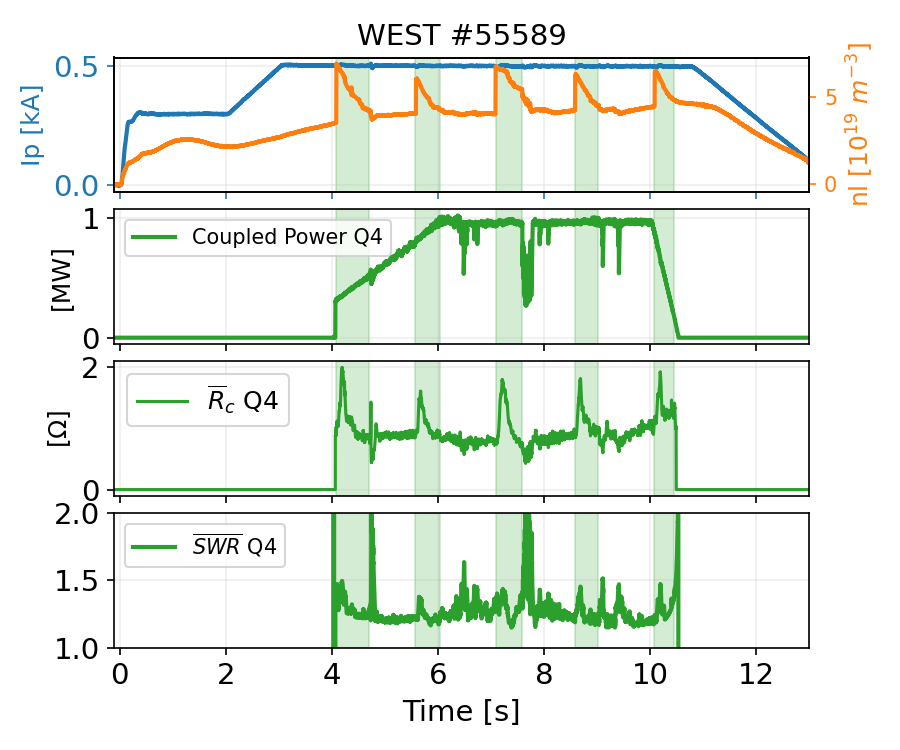
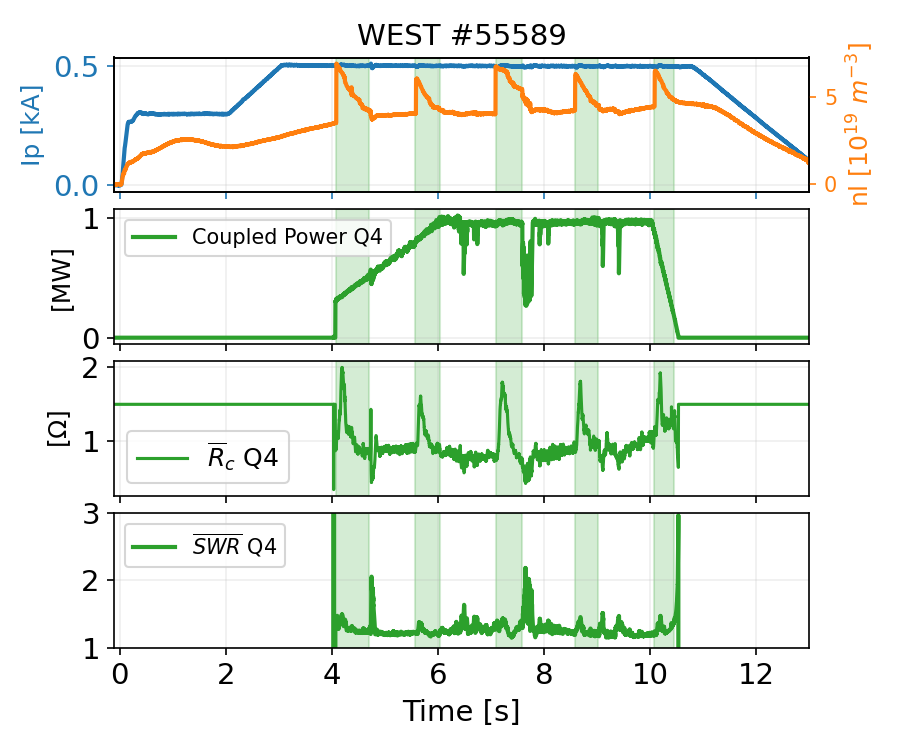
Taking Guillaume and Walid comments

diff --git a/master.tex b/master.tex
@@ -146,7 +146,7 @@ The three WEST ICRH antennas have been designed to satisfy the ICRH power requir
 
 Each antenna is made of four short straps (2 toroidal $\times$ 2 poloidal) located in separated boxes behind a Faraday Screen (figure~\ref{fig:antenna}). The tilt angle of the Faraday Screen bars is close to the direction of the total magnetic field lines facing the antennas (\SI{7}{\degree}). Each toroidal side of an antenna is fed by a separate high power source. The phase between the left and right sides of each antenna is defined by the plasma control system, the default being dipole configuration. An FPGA-based PID controller modulates the right side generator source frequency (the left side being the reference) to maintain the requested phase with a response time of approximately \SI{50}{\micro\second}. Moreover, the frequencies at which antennas are operated are slightly shifted from the scenario request (around $\pm \SI{0.3}{\mega\hertz}$) to reduce cross-talk between antennas. All antennas are movable radially for optimizing the power coupling and thermal loads handling.
 
-To cope with the fast changes of the electron density facing the antenna during ELMs, the antennas rely on internals conjugate-T \cite{bosia2003-1}: poloidal pairs of straps are connected to an adjustable series capacitor and fed from a common T-junction. Matching is achieving by tuning these capacitors such as the two parallel branches have complex conjugate admittances. If the impedance seen at the T-junction is in the range of 3 to \SI{6}{\ohm}, this feeding circuit allows maintaining the Standing Wave Ratio (SWR) below reasonable values for the generator (below $2{:}1$ on WEST) within a large increase in antenna resistive loadings, such as the ones expected during ELMs. This load-tolerant electrical circuit has been successfully tested in few seconds pulses in Tore Supra \cite{vulliez2008} and JET \cite{durodie2012-1}. This choice was also motivated by the fact that no \SI{3}{\decibel} Continuous Wave (CW) couplers were available (and still) on the market and required important R\&D. The low impedance at the conjugate-T junction is then transformed to the feeding \SI{30}{\ohm} transmission lines by a fixed two-stage quarter-wave transformer.
+To cope with the fast changes of the electron density facing the antenna during ELMs, the antennas rely on internals conjugate-T \cite{bosia2003-1}: poloidal pairs of straps are connected to an adjustable series capacitor and fed from a common T-junction. Matching is achieving by tuning these capacitors such as the two parallel branches have complex conjugate admittances. If the impedance seen at the T-junction is in the range of 3 to \SI{6}{\ohm}, this feeding circuit allows maintaining the Standing Wave Ratio (SWR) below reasonable values for the generator (below $2{:}1$ for \SI{3}{\mega\watt} per antenna on WEST) within a large increase in antenna resistive loadings, such as the ones expected during ELMs. This load-tolerant electrical circuit has been successfully tested in few seconds pulses in Tore Supra \cite{vulliez2008} and JET \cite{durodie2012-1}. This choice was also motivated by the fact that no \SI{3}{\decibel} Continuous Wave (CW) couplers were available (and still) on the market and required important R\&D. The low impedance at the conjugate-T junction is then transformed to the feeding \SI{30}{\ohm} transmission lines by a fixed two-stage quarter-wave transformer.
 
 
 \begin{figure}
@@ -159,7 +159,7 @@ To cope with the fast changes of the electron density facing the antenna during 
 
 
 
-Thanks to the collaboration between LPP-RMA and CEA, the experience gained with the JET ILA \cite{durodie2012-1} has been used during the WEST antenna design. In particular, the reliability of the operation of the capacitors has been improved with reduced mechanical stresses and the possibility to perform remote-diagnostic of the capacitor internal vacuum. Lessons were also learned from Tore Supra prototypes, to improve vacuum tightness and to bring water in all the parts of the antenna \cite{vulliez2008, vulliez2015}. The vacuum pumping of the impedance transformer sections has been improved and the pressure is monitored with two pressure gauges. Strap voltages are measured using D-dot electric field probes located between the capacitors and the straps (figure~\ref{fig:westicrhblockdiagram}). Strap currents are deduced analytically from these voltages, assuming the strap impedance is mostly reactive. Forward and reflected powers are measured by bi-directional couplers located at the rear of the antenna and at the generator plant. The forward RF power is feedback-controlled to keep voltages and currents below their maximum safety thresholds, set to \SI{28}{\kilo\volt} and \SI{915}{\ampere} respectively, with a fast response time of the order of \SI{10}{\micro\second}  to avoid possible current overshoots during plasma disruptions.
+Thanks to the collaboration between LPP-RMA and CEA, the experience gained with the JET ILA \cite{durodie2012-1} has been used during the WEST antenna design. In particular, the reliability of the operation of the capacitors has been improved with reduced mechanical stresses and the possibility to perform remote-diagnostic of the capacitor internal vacuum. Lessons were also learned from Tore Supra prototypes, to improve vacuum tightness and to bring water in all the parts of the antenna \cite{vulliez2008, vulliez2015}. The vacuum pumping of the impedance transformer sections has been improved and the pressure is monitored with two pressure gauges. Strap voltages are measured using D-dot electric field probes located between the capacitors and the straps (figure~\ref{fig:westicrhblockdiagram}). Strap currents are deduced analytically from these voltages, assuming the strap impedance is mostly reactive. Forward and reflected powers are measured by bi-directional couplers located at the rear of the antenna and at the generator plant. The forward RF power is feedback-controlled to keep voltages and currents below their maximum safety thresholds, set to \SI{28}{\kilo\volt} and \SI{915}{\ampere} respectively, with a fast response time of the order of \SI{10}{\micro\second} to avoid possible voltage or current overshoots during plasma disruptions.
 
 \begin{figure}
 	\centering
@@ -172,6 +172,8 @@ Thanks to the collaboration between LPP-RMA and CEA, the experience gained with 
 A unique feature of these antennas is to satisfy the long pulse requirement of WEST. Antennas are fully water-cooled using two distinct water circuits: i) a high temperature/high pressure (up to \SI{200}{\celsius} during baking operation and \SI{70}{\celsius}/\SI{30}{\bar} bar during plasma operation) water circuit and ii) a low temperature/low pressure (\SI{25}{\celsius}/\SI{4}{\bar}) specifically designed to cool the antenna matching capacitors \cite{chen2015,vulliez2015}. However, some limitations remain in the thermal evolution of non-actively water-cooled components that could not be replaced or actively cooled, such as in the generator plant, transmission lines or vacuum feed-throughs. This implies a tuning of the total power as a function of the pulse duration, i.e. to \SI{9}{\mega\watt} /\SI{30}{\second}, \SI{6}{\mega\watt}/\SI{60}{\second} and \SI{3}{\mega\watt}/\SI{1000}{\second} \cite{hillairet2015-2}.
 
 All antenna RF surfaces, such as the Faraday Screen, antenna box, straps, internal and external conductors, are silver-coated (\SI{10}{\micro\meter} Ni and around \SI{50}{\micro\meter} Ag, i.e. more than five times the skin depth). Lateral limiters are located on both sides of each antenna and protrude by \SI{2}{\centi\meter} from the edges of the Faraday Screen. These limiters are the ones used on Tore Supra and are made of CFC tiles coated with a double coating made of a first \SI{80}{\micro\meter} molybdenum layer followed by an \SI{80}{\micro\meter} tungsten (W) coating \cite{firdaouss2017-1, firdaouss2017}. While having high Z materials close to an ICRH antenna was known to increase the tungsten sputtering attributed to the acceleration of light impurity ions in the rectified RF sheaths \cite{bobkov2010}, this choice was motivated by the desire to keep a full W, reactor relevant machine \cite{bucalossi2014}.
+
+An infrared thermography system monitors the antenna front-faces with a spatial resolution better than \SI{5}{\milli\metre}/pixel\cite{courtois2019}. Antenna limiters are protected with a real-time reduction of the RF power if the luminance temperature (i.e. with unity emissivity) exceeds a threshold initially determined either from material test bed or experience. The real-time protection of the ICRH antenna front-face is more challenging in WEST than in Tore-Supra\cite{colas2009}, in particular due to the low emissivity of their silver coating which reduces the surface temperature estimation accuracy \cite{aumeunier2021}. So far, the front-faces are monitored but without real-time feedback on RF power during plasma operations.
 
 The WEST ICRH antenna design phase has been conducted from 2013 to 2014, followed by manufacturing in ASIPP from 2015 to 2017. Antenna elements were shipped to CEA, then silver coated and the antennas assembled in series from 2016 to 2019. The antennas have been commissioned on TITAN, then installed on WEST and operated progressively since 2018 \cite{bernard2017, bernard2019, helou2020}. In 2019, all three antennas were operated on WEST (figure~\ref{fig:ICRH_antenna_inside_WEST}). This paper reports the commissioning and the key results obtained on plasma with the full WEST ICRH system.
 
@@ -191,7 +193,7 @@ The WEST ICRH antenna design phase has been conducted from 2013 to 2014, followe
 
 
 \section{RF Modelling}
-The WEST ICRH RF modelling, described in more details in \cite{helou2015-2, hillairet2020-2}, is summarized in this section. The antenna RF model uses a combination of full-wave models of the antenna’s elements and equivalent lumped elements circuit of the tuning capacitors deduced from full-wave simulations (Figure 1). The evaluation of the coupling of the front-face to plasma is computed using bespoke codes such as TOPICA \cite{milanesio2009} or Petra-M \cite{bertelli2020, shiraiwa2021}, or using commercial FEM software such as COMSOL in RAPLICASOL \cite{tierens2020-2}. The RF model of a WEST ICRH antenna is built using the open-source Python package scikit-rf\footnote{\url{http://scikit-rf.org}}  and can be found and used online\footnote{\url{https://github.com/jhillairet/WEST_IC_antenna}}. The model allows comparing voltages, currents, powers and phases to measurements as illustrated in Section 4 and can be used in the control room to assist ICRH operators in antenna tuning. Future work will focus on making “digital twins” of each antenna, enabling operators to interpret the antenna measured responses (post-pulse) and to guide operators in optimizing the antennas for the next plasma pulse.
+The WEST ICRH RF modelling, described in more details in \cite{helou2015-2, hillairet2020-2}, is summarized in this section. The antenna RF model uses a combination of full-wave models of the antenna’s elements and equivalent lumped elements circuit of the tuning capacitors deduced from full-wave simulations (Figure 1). The evaluation of the scattering parameters of the 4-ports front-end facing the plasma computed using bespoke codes such as TOPICA \cite{milanesio2009} or Petra-M \cite{bertelli2020, shiraiwa2021}, or using commercial FEM software such as COMSOL in RAPLICASOL \cite{tierens2020-2}. The complete electrical circuit a WEST ICRH antenna is assembled using the open-source Python package scikit-rf\footnote{\url{http://scikit-rf.org}}  and can be found and used online\footnote{\url{https://github.com/jhillairet/WEST_IC_antenna}}. The overall model allows comparing voltages, currents, powers and phases to measurements as illustrated in Section 4 and can be used in the control room to assist ICRH operators in antenna tuning. Future work will focus on making “digital twins” of each antenna, enabling operators to interpret the antenna measured responses (post-pulse) and to guide operators in optimizing the antennas for the next plasma pulse.
 
 \section{Antennas Commissioning}
 \subsection{Low power RF tests}
@@ -200,7 +202,7 @@ During the antenna assembly, calibrations have been performed of components not 
 Leak tests and First High RF Power Tests
 Before being installed in WEST, each of the three ICRH antennas has been commissioned following the same procedure described in \cite{bernard2019} and recalled here. Each antenna has been installed in the TITAN vacuum chamber \cite{litaudon2013} to realize vacuum and water leak tests (figure~\ref{fig:titan}). Once the tank is vacuum pumped, antenna water circuits are then sequentially filled with Helium for leak detection. Leak-tests are repeated at room and hot temperature ($<\SI{200}{\celsius}$) during two consecutive cycles of temperature increase/plateau/decrease. An example of temperature and pressure traces during standard cycles is illustrated in figure~\ref{fig:baking} for the third antenna (Q4).  
 
-High voltage RF tests are made in TITAN alternatively on both sides of an antenna. The goal of these tests is to check the voltage stand-off of the antenna, with a goal of \SI{27}{\kilo\volt} during \SI{2}{\second}. The antenna energized side is matched while the other side is detuned to reduce cross-coupling and voltage breakdowns in the non-energized side. Once both sides are validated, antennas are ready to be mounted on WEST and the measurement chain calibrated.
+High voltage RF tests are made in TITAN alternatively on both sides of an antenna to check the voltage stand-off of the antenna up to \SI{27}{\kilo\volt}/\SI{3}{\second}. The antenna energized side is matched while the other side is detuned to reduce cross-coupling and voltage breakdowns in the non-energized side. Once both sides are validated, antennas are ready to be mounted on WEST and the measurement chain calibrated.
 
 \begin{figure}
 	\centering
@@ -217,15 +219,15 @@ High voltage RF tests are made in TITAN alternatively on both sides of an antenn
 	\label{fig:baking}
 \end{figure}
 
-\subsection{Breakdowns Detection}
-The WEST ICRH system uses a combination of several interlocks to detect RF breakdowns throughout the antennas \cite{hillairet2015-2, helou2020}. In case of detection, the two generators feeding an antenna are cut-off within 10 to \SI{50}{\micro\second} then re-applied after 30 to \SI{50}{\milli\second} (depending on the interlock, which in turns can give an idea on the interlock that has triggered). In addition to the standard reflected power ($P_{\mathrm{ref}}/P_{\mathrm{fwd}}$) and Sub-Harmonic Arc Detection (SHAD) systems \cite{berger-by2007}, a new optical arc detection system monitoring the low impedance regions around the T-junctions come in reinforcement. This system relies on 8 optical fibres per antenna associated with fast photodetectors ($<\SI{10}{\micro\second}$) looking at various regions of the low impedance T-junctions. Abnormal events can also be detected from the antenna voltage measurements. Hence, RF power is stopped within \SI{10}{\micro\second} (then reapplied after \SI{30}{\milli\second}) in case of i) voltages lower than \SI{10}{\kilo\volt} when the forward power larger than \SI{100}{\kilo\watt}, meaning RF power does not reach properly the antenna front-face or ii) if a relative difference in voltages between straps is higher than 50\% (unbalance). A  turbomolecular pump connected to at the back of each antenna helps to improve the vacuum level inside both impedance transformers. To prevent sustaining undetected RF plasma discharges which may arise inside these antenna vacuum sections, the RF power is stopped if the pressure measured by vacuum gauges close to the pump is higher than \SI{4.5e-3}{\pascal}, then reapplied when the pressure is below \SI{2.2e-4}{\pascal}.
+\subsection{Fault Detection}
+The WEST ICRH system uses a combination of several interlocks to detect faults and RF breakdowns throughout the antennas \cite{hillairet2015-2, helou2020}. In case of fault detection, the two generators feeding an antenna are cut-off within 10 to \SI{50}{\micro\second} then re-applied after 30 to \SI{50}{\milli\second} (depending on the interlock, which in turns can give an idea on the interlock that has triggered). In addition to the standard reflected power ($P_{\mathrm{ref}}/P_{\mathrm{fwd}}$) and Sub-Harmonic Arc Detection (SHAD) systems \cite{berger-by2007}, a new optical arc detection system monitoring the low impedance regions around the T-junctions come in reinforcement. This system relies on 8 optical fibres per antenna associated with fast photodetectors ($<\SI{10}{\micro\second}$) looking at various regions of the low impedance T-junctions. Abnormal events can also be detected from the antenna voltage measurements. Hence, RF power is stopped within \SI{10}{\micro\second} (then reapplied after \SI{30}{\milli\second}) in case of i) voltages lower than \SI{10}{\kilo\volt} when the forward power larger than \SI{100}{\kilo\watt}, meaning RF power does not reach properly the antenna front-face or ii) if a relative difference in voltages between straps is higher than 50\% (unbalance). A  turbomolecular pump connected to at the back of each antenna helps to improve the vacuum level inside both impedance transformers. To prevent sustaining undetected RF plasma discharges which may arise inside these antenna vacuum sections, the RF power is stopped if the pressure measured by vacuum gauges close to the pump is higher than \SI{4.5e-3}{\pascal}, then reapplied when the pressure is below \SI{2.2e-4}{\pascal}.
 
-Interestingly, the kind of interlock which triggers, indicated by the marker type and colour scale in figure~\ref{fig;arcdetection}, varies throughout the conditioning process, i.e. the progression of the RF conditioning from low voltages/durations (\SI{5}{\kilo\volt} /\SI{20}{\milli\second}) up to high voltages/durations (\SI{27}{\kilo\volt}/\SI{5}{\second}). While both reflected power and SHAD detectors trigger mostly for high voltage breakdowns (simultaneously or not) \cite{dinca2011}, other kinds of breakdowns often undetected with the two later systems were detected with the new optical arc detectors. These breakdowns generally occur during the beginning of the conditioning phases, but also during plasma operation. Max pressure interlocks trigger in case of severe outgassing, which occurs naturally as the RF energy increases and as long as the antenna RF surfaces are not yet sufficiently conditioned. Work is ongoing to model the physics and the dynamics associated with these breakdowns. During plasma operation, all of these interlocks can be triggered, in combination or not. These preliminary results confirm the importance of combining operational safety systems as the location and the breakdown type vary depending on the RF circuit, voltages and material surface properties evolution \cite{dinca2011-1}. No significant damage has been observed on the antenna front-faces and internal elements since their installation. 
+The RF conditioning after an air venting of the WEST ICRH antennas is performed as follows. Each antenna side is separately energized for \SI{20}{\milli\second} pulses until to reach a stable maximum voltage of \SI{20}{\kilo\volt}. Then, both sides are combined in dipole phasing and forward power then duration are progressively increased. Interestingly, the kind of interlock which triggers, indicated by the marker type and colour scale in figure~\ref{fig:arcdetection}, vary throughout the conditioning process, i.e. the progression of the RF conditioning from low voltages/durations (\SI{5}{\kilo\volt} /\SI{20}{\milli\second}) up to high voltages/durations (\SI{27}{\kilo\volt}/\SI{5}{\second}). While both reflected power and SHAD detectors trigger mostly for high voltage breakdowns (simultaneously or not) \cite{dinca2011}, other kinds of breakdowns often undetected with the two later systems were detected with the new optical arc detectors. These breakdowns generally occur during the beginning of the conditioning phases, but also during plasma operation. Max pressure interlocks trigger in case of severe outgassing, which occurs naturally as the RF energy increases and as long as the antenna RF surfaces are not yet sufficiently conditioned. During plasma operation, all of these interlocks can be triggered, in combination or not. These preliminary results confirm the importance of combining operational safety systems as the location and the breakdown type vary depending on the RF circuit, voltages and material surface properties' evolution \cite{dinca2011-1}. No significant damage has been observed on the antenna front-faces and internal elements since their installation. 
 
 \begin{figure}
 	\centering
 	\includegraphics[width=0.95\linewidth]{figures/arc_detection}
-	\caption{Example of vacuum conditioning process (from Q1 antenna in 2020), with mean strap voltage as a function of the RF pulse duration. The dashed arrow indicates the approximative path of the RF conditioning steps from low voltages/durations (\SI{20}{\milli\second}) up to high voltages/durations (\SI{26}{\kilo\volt}/\SI{5}{\second}).}
+	\caption{Example of vacuum conditioning process (from Q1 antenna in 2020), with mean strap voltage as a function of the RF pulse duration. RF conditioning starts at low forward power and duration (\SI{20}{\milli\second}) and the power then the duration are increased until achieving stable pulses (no interruption).}
 	\label{fig:arcdetection}
 \end{figure}
 
@@ -233,18 +235,18 @@ Interestingly, the kind of interlock which triggers, indicated by the marker typ
 
 \section{Plasma Experiments}
 \subsection{Key Achievements}
-The commissioning phase on WEST plasmas was relatively short, only two days for each antenna were required to reach 1 to \SI{1.5}{\mega\watt}. After this commissioning phase, all three antennas have been operated simultaneously on WEST plasmas, leading to \SI{5.8}{\mega\watt} coupled ICRH power after around 50 plasma discharges (close to \SI{2}{\mega\watt} per antenna) (figure~\ref{fig:westicrhcoupledpowervspulse}). In combined operation with the Lower Hybrid Current Drive (LHCD) system, a total injected RF power of up to \SI{9.2}{\mega\watt} has been achieved \cite{bucalossi2021}. 
+The commissioning phase on WEST plasmas was relatively short, only two days for each antenna were required to reach 1 to \SI{1.5}{\mega\watt}. After this commissioning phase, all three antennas have been operated simultaneously on WEST plasmas. The antennas are operated at a slightly different frequencies (around \SI{150}{\kilo\hertz} shift between antennas) to reduce cross-talks between antennas. A maximum coupled power of \SI{5.8}{\mega\watt} with all three antennas combined has been obtained after around 50 plasma discharges (close to \SI{2}{\mega\watt} per antenna). In combined operation with the Lower Hybrid Current Drive (LHCD) system, a total injected RF power of up to \SI{8}{\mega\watt} has been achieved during few seconds\cite{bucalossi2021}. 
 
-\begin{figure}
-	\centering
-	\includegraphics[width=0.95\linewidth]{figures/WEST_ICRH_CoupledPower_vs_pulse}
-	\caption{Evolution of the coupled power for the number of pulses since the start of the 2019 campaign (ICRH–only pulses illustrated). }
-	\label{fig:westicrhcoupledpowervspulse}
-\end{figure}
+%\begin{figure}
+%	\centering
+%	\includegraphics[width=0.95\linewidth]{figures/WEST_ICRH_CoupledPower_vs_pulse}
+%	\caption{Evolution of the coupled power for the number of pulses since the start of the 2019 campaign (ICRH–only pulses illustrated). }
+%	\label{fig:westicrhcoupledpowervspulse}
+%\end{figure}
 
 
 \subsection{Antenna Load Resilience and Operation}
-The intrinsic load tolerance property of the WEST ICRH antennas, already demonstrated during commissioning and first plasma experiments \cite{helou2020}, has been confirmed in the last experimental campaigns. An example of the load resilience of the WEST antennas is illustrated in figure~\ref{fig:westic55589summarypellet} with WEST pulse \# 55589. During this pulse, 5 deuterium pellets have been injected from the high field, leading to fast density increases, correlated with fast changes in the antenna coupling resistance (from 0.5 to \SI{2}{\ohm}). The SWR however does not exceed $2{:}1$ ($P_{\mathrm{ref}}/P_{\mathrm{fwd}} \approx 11$\%), the limit for which safety interlocks stop RF power. Figure~\ref{fig:westicrh55589loadresilienceq4} shows the SWR evolution with coupling resistance during the 3rd pellet injection and is compared to the antenna RF model simulation. The grey dashed line represents the SWR that would have been reached if the antenna was not load-resilient (cf.\cite{helou2020} for additional details). 
+The intrinsic load tolerance property of the WEST ICRH antennas, already demonstrated during commissioning and first plasma experiments \cite{helou2020}, has been confirmed in the last experimental campaigns. An example of the load resilience of the WEST antennas is illustrated in figure~\ref{fig:westic55589summarypellet} with WEST pulse \# 55589. During this pulse, 5 deuterium pellets have been injected from the high field, leading to fast density increases, correlated with fast changes in the antenna coupling resistance (from 0.5 to \SI{2}{\ohm}).  Figure~\ref{fig:westicrh55589loadresilienceq4} shows the SWR evolution with coupling resistance during the third pellet injection and is compared to the antenna RF model simulation. The red dashed line illustrates the generator SWR limit to couple \SI{3}{\mega\watt} per antenna (\SI{1.5}{\mega\watt} per generator). The gray dashed line represents for reference the SWR that would have been reached if the antenna was not load-resilient (cf.\cite{helou2020} for additional details). 
 
 The operation of the antennas is relatively straightforward, as once the antenna tuning capacitors are properly set up for a given frequency, the antenna load tolerance accepts small capacitance deviations from the ideal match point. Excluding effects on plasma heating efficiency and impurities production, changes in plasma parameters such as minority concentration, fluctuations of the fast wave cut-off layer or minor changes in resonance layer location do therefore not affect the antenna operation significantly. This feature was particularly appreciated during the C4 experimental campaign, as it was still possible to couple RF power to various plasma scenarios despite that few obsolete motor controllers had broken down, prohibiting the movement of some capacitors on two distinct antennas. The motorization system has been fully refurbished for the C5 campaign. 
 
@@ -280,7 +282,7 @@ where $\mathbf{g}$ is the gradient vector of $\ZT$ at the setpoint. Separating r
 \end{equation}
 Where the $\mathbf{D}$ is the matrix of partial derivatives around the setpoint and $\mathbf{\ZT}=(\Re(\ZT), \Im(\ZT))$. However, since this matrix cannot be evaluated in real-time, in practice it is approximated with the sign of its elements, evaluated numerically using the antenna RF model, to give the proper descent direction. Depending on the choice of these signs, the operator can choose one of the two matching solutions. The velocities $\mathbf{V}$ at which the capacitors are moved are proportional to the incremental change request $\mathbf{\delta C}$. Figure~\ref{fig:westic55629automatching} illustrates an example of the usage of this method on plasma. As the Radial Outer Gap (ROG) of the plasma decreases, the coupling resistance ($R_c$) increases and the capacitors move apart to improve the antenna matching (SWR decreases).
 
-Because of its local nature, the algorithm converges only if the initial guess point is properly chosen, i.e. as long as the gradient estimate corresponds to a negative descent direction. Future work could investigate further improvements such as non-linear converging (faster velocities when far from the set point, slower when closer)\cite{durodie2017} or control methods allowing to increase the range of the starting point. As the capacitors of each antenna side are currently controlled in parallel, future work will consist of taking into account cross-coupling between left and right sides in a self-consistent way and/or minimize voltage unbalance rather than SWR. The possibility to automatically deactivate the real-time control during fast changes of the plasma is envisaged, if it becomes necessary, for example during ELMy phases, using signals from the WEST interferometry system.
+Because it is based on a RF model linearized close to the match point, the algorithm converges only if the initial guess point is properly chosen, i.e. as long as the gradient estimate corresponds to a negative descent direction. Future work could investigate further improvements such as non-linear converging (faster velocities when far from the set point, slower when closer)\cite{durodie2017} or control methods allowing to increase the range of the starting point. As the capacitors of each antenna side are currently controlled in parallel, future work will consist of taking into account cross-coupling between left and right sides in a self-consistent way and/or minimize voltage unbalance rather than SWR. The possibility to automatically deactivate the real-time control during fast changes of the plasma is envisaged, if it becomes necessary, for example during ELMy phases, using signals from the WEST interferometry system.
 
 \begin{figure}
 	\centering
@@ -299,7 +301,7 @@ Because of its local nature, the algorithm converges only if the initial guess p
 
 \subsection{Phase Control}
 
-On WEST ICRH antennas, the forward power is generated by two tetrodes\cite{kuus1989}, one for each side of the antenna. The toroidal phase between the left and right sides is achieved by frequency-modulating the right side, the left side being the reference. Initially, the input signal was taken from the toroidal phase between forward powers and the toroidal phase between strap voltages was derived from a linear combination of additional phase measurements. However, this method gave unstable results due to antenna-dependent phase roll-overs occurring in electronic cards. The system has been further improved in the C5 experimental campaign, to use directly the toroidal phase between (top) strap voltages as the input signal. The phase is regulated using an FPGA-based PID whose typical response time to change request is approximatively \SI{50}{\micro\second} and has been found very robust on each antenna to plasma changes. As an example, figure~\ref{fig:westic56469phasecontrol} illustrates the performances of the toroidal phase control for the Q2 antenna on plasma in which the Radial Outer Gap (ROG) is oscillating by $\pm\SI{5}{\milli\meter}$. The phase feedback control has been found very robust to plasma changes. Despite the changes in the coupling resistance, the accuracy of the toroidal phase is in the order of $\pm\SI{2}{\degree}$. The phase error can be increased to $\pm\SI{5}{\degree}$ when multiple antennas are used at the same time or in case of bad absorption, as the phase measurements do not discriminate with frequency and are thus affected by antennas cross-talk and/or multiple passes in the plasma. The role of the antenna toroidal phase in impurity production is discussed in the next section. 
+On WEST ICRH antennas, the forward power is generated by two tetrodes\cite{kuus1989}, one for each side of the antenna. The toroidal phase between the left and right sides is achieved by frequency-modulating the right side, the left side being the reference. Initially, the input signal was taken from the toroidal phase between forward powers and the toroidal phase between strap voltages was derived from a linear combination of additional phase measurements. However, this method gave unstable results due to antenna-dependent phase roll-overs occurring in electronic cards. The system has been further improved in the C5 experimental campaign, to measure directly the toroidal phase between (top) strap voltages as the input signal to control. The phase is regulated using an FPGA-based PID whose typical response time to change request is approximatively \SI{50}{\micro\second} and has been found very robust on each antenna to plasma changes. As an example, figure~\ref{fig:westic56469phasecontrol} illustrates the performances of the toroidal phase control for the Q2 antenna on plasma in which the Radial Outer Gap (ROG) is oscillating by $\pm\SI{5}{\milli\meter}$. The phase feedback control has been found very robust to plasma changes. Despite the changes in the coupling resistance, the accuracy of the toroidal phase is in the order of $\pm\SI{2}{\degree}$. The phase error can be increased to $\pm\SI{5}{\degree}$ when multiple antennas are used at the same time or in case of bad absorption, as the phase measurements do not discriminate with frequency and are thus affected by antennas cross-talk and/or multiple passes in the plasma. The role of the antenna toroidal phase in impurity production is discussed in the next section. 
 
 \begin{figure}
 	\centering
@@ -309,9 +311,9 @@ On WEST ICRH antennas, the forward power is generated by two tetrodes\cite{kuus1
 \end{figure}
 
 \subsection{Radiated Power and Impurity Production}
-When the isotopic ratio $n_H/(n_H+n_D)$ is in the expected range for H minority heating scenarios (i.e. from 5 to 10\%) and the toroidal phase properly tuned to dipole, the radiated power measured in 2019 and 2020 scales with the total power (Ohmic + total RF coupled power) and weak specific effect of LH or ICRH RF power has been found. This is illustrated in figure~\ref{fig:westc4c5pradvsptot} for a large set of plasma scenarios, where each point represents a stable 200 ms time window during which the considered quantity has a relative change below 10\%. High-performance plasma experiments conducted on WEST in 2019 have proven that the ICRH system is a key player in achieving edge density pedestal and H-mode transitions \cite{goniche2021,vermare2021}. Several multiple transitions from L to H modes have been obtained and an H-mode phase of up to \SI{4}{\second} has been sustained with the combination of ICRH and LHCD \cite{bucalossi2021}. However, the sustainment of stable H-modes in WEST is presently impeded by the concomitant increase of core radiation level after a transition. It results in oscillatory edge dynamics also impacting ICRH antennas, decreasing the coupling and eventually the coupled power. Additionally, WEST scenarios are also currently hampered by the issue of burning through the tungsten radiation peak at 1.5-\SI{3}{\kilo\electronvolt}, due to a limited level of central electron heating including when applying ICRH \cite{goniche2021}. Future work will concentrate on optimizing the RF heating scheme to ICRH+LHCD plasma scenarios, especially to increase the central temperature as soon as possible in the discharge. 
+When the isotopic ratio $n_H/(n_H+n_D)$ is in the expected range for H minority heating scenarios (i.e. from 5 to 10\%) and the toroidal phase properly tuned to dipole, the radiated power measured in 2019 and 2020 scales with the total power (Ohmic + total RF coupled power) and weak specific effect of LH or ICRH RF power has been found. This is illustrated in figure~\ref{fig:westc4c5pradvsptot} for a large set of plasma scenarios, where each point represents a stable 200 ms time window during which the considered quantity has a relative change below 10\%. High-performance plasma experiments conducted on WEST in 2019 have proven that the ICRH system is a key player in achieving edge density pedestal and H-mode transitions \cite{goniche2021,vermare2021}. Several multiple transitions from L to H modes have been obtained and an H-mode phase of up to \SI{4}{\second} has been sustained with the combination of ICRH and LHCD \cite{bucalossi2021}. However, the sustainment of stable H-modes in WEST is presently impeded by the concomitant increase of core radiation level after a transition. It results in oscillatory edge dynamics also impacting ICRH antennas, decreasing the coupling and eventually the coupled power. Additionally, WEST scenarios are also currently hampered by the issue of burning through the tungsten radiation peak at 1.5-\SI{3}{\kilo\electronvolt}, due to a limited level of central electron heating including when applying ICRH \cite{goniche2021}. Future work will concentrate on optimizing the RF heating scheme to ICRH+LHCD plasma scenarios, especially to increase the central temperature as soon as possible in the discharge. A 3MW/CW ECRH system is also under preparation for WEST\cite{bucalossi2021}. This system will be used in particular for the central heating of the plasma during the very early phase of current ramp up.
 
-The specific role of the ICRH antenna in W emission has been evidenced using visible spectroscopy and infrared measurements \cite{colas2020, urbanczyk2019, urbanczyk2021}. 17 lines of sight are looking at both lateral limiters of the Q2 antenna (8/9 lines on the left/right limiters respectively). Using the W-I line (\SI{400.8}{\nano\meter} ) brightness as a proxy of the W gross erosion, figure~\ref{fig:westic5522355226} illustrates that a toroidal phase departing from the standard dipole phasing (\SI{180}{\degree}) led to larger brightness on the antenna side limiters and the magnetically connected Antenna Protection Limiter (APL) (factor 1.8 over the range $[80\deg,180\deg]$) but not elsewhere \cite{urbanczyk2019}. However, W-I line brightness is not simply related to the W core contamination because of the large prompt redeposition of W and transport in the divertor and SOL. Future work will consist of a deeper characterization of the impurity sources and the effect on plasma core using a combination of experiments measuring low ionisation stages (W II to VIII) and edge transport simulations. At this stage, the operational domain explored so far does not allow us to differentiate the impact of LHCD or ICRH antennas on the core radiation level. New low-Z materials antenna lateral limiters are under design for both LHCD and ICRH antennas. It is expected to install them progressively, allowing direct comparisons between antennas equipped with W or low-Z antenna limiters on WEST plasma.
+The specific role of the ICRF waves in modifying the Scrape-Off Layer has been evidenced using visible spectroscopy and infrared measurements \cite{colas2020, urbanczyk2019, urbanczyk2021}. 17 lines of sight are looking at both lateral limiters of the Q2 antenna (8/9 lines on the left/right limiters respectively). The W-I line (\SI{400.8}{\nano\meter}) brightness is used a proxy of the W gross erosion. When an antenna is powered, the brightness is larger (for a constant total power) than when the antenna is not energized and the amplification factor depends on the antenna voltages. Figure~\ref{fig:westic5522355226} illustrates that a toroidal phase departing from the standard dipole phasing (\SI{180}{\degree}) also led to larger brightness on the antenna side limiters and on the magnetically connected Antenna Protection Limiter (APL) but not elsewhere \cite{urbanczyk2019}. Corrected from the drop of coupled power (due to the antenna unmatching as the phase departs from \SI{180}{\degree}) However, W-I line brightness is not simply related to the W core contamination because of the large prompt redeposition of W and transport in the divertor and SOL. Future work will consist of a deeper characterization of the impurity sources and the effect on plasma core using a combination of experiments measuring low ionisation stages (W II to VIII) and edge transport simulations. At this stage, the operational domain explored so far does not allow us to differentiate the impact of LHCD or ICRH antennas on the core radiation level. New low-Z materials antenna lateral limiters are under design for both LHCD and ICRH antennas. It is expected to install them progressively, allowing direct comparisons between antennas equipped with W or low-Z antenna limiters on WEST plasma.
 
 \begin{figure}
 	\centering

diff --git a/figures/plot_shot_55589_load_resilience_pellet_injections_Q4.py b/figures/plot_shot_55589_load_resilience_pellet_injections_Q4.py
@@ -97,7 +97,7 @@ ax[2].legend(fontsize=12)
 
 # ax[3].plot(t_VSWR_Q1_l, VSWR_Q1, lw=2, label=r'$\overline{VSWR}$ Q1', color='C0')
 ax[3].plot(t_VSWR_Q4_l, VSWR_Q4, lw=2, label=r'$\overline{SWR}$ Q4', color='C2')
-ax[3].set_ylim(1, 2)
+ax[3].set_ylim(1, 3)
 ax[3].set_ylabel('', fontsize=12)
 ax[3].legend(fontsize=10)
 
@@ -117,4 +117,3 @@ for idx, _ts in enumerate(ts):
 
 #%%
 fig.savefig(f'WEST_IC_{pulse}_summary_pellet.png', dpi=150)
-

diff --git a/figures/plot_shot_55589_load-resilience_RFmodel.py b/figures/plot_shot_55589_load-resilience_RFmodel.py
@@ -87,7 +87,7 @@ ax.plot(Rcs, Rcs/Z_load.real, ls='--', color='gray')
 ax.text(1.3, 2.1, 'Non Resilient', color='gray', rotation=45)
 
 ax.axhline(2, ls='--', color='darkred')
-ax.text(0.8, 2.02, 'SWR Limit', color='darkred')
+ax.text(0.8, 2.02, 'SWR Limit for 3MW per antenna', color='darkred')
 
 ax.set_ylim(1, 2.5)
 ax.set_xlim(0.35, 2.01)
